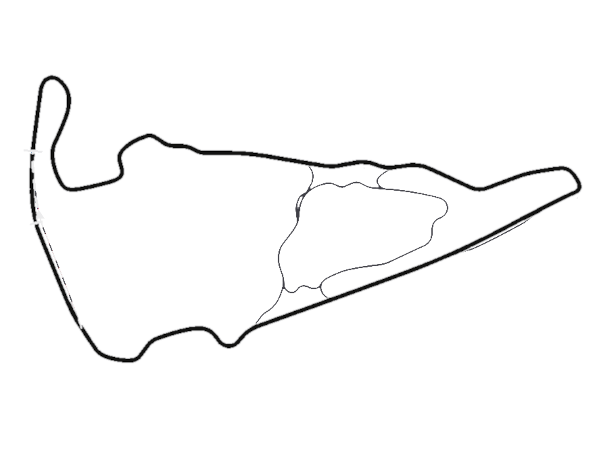
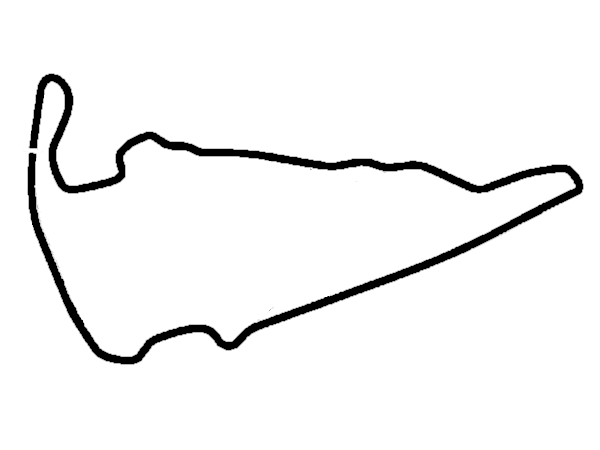
Add mazda + lambo badges, thicken vir map

Changed region(s): [[0.03, 0.1556, 0.99, 0.8089], [0.48, 0.4356, 0.51, 0.5289], [0.72, 0.4356, 0.75, 0.4978]]

diff --git a/Racing Overlay/Models/CarLogo.cs b/Racing Overlay/Models/CarLogo.cs
@@ -21,18 +21,22 @@ namespace RacingOverlay
                     return "audi-logo";
                 case string s when s.StartsWith("bmw"):
                     return "bmw-logo";
-                case "cadillacvseriesrgtp":
+                case string s when s.StartsWith("cadillac"):
                     return "cadillac-logo";
                 case "chevyvettez06rgt3":
                     return "chevrolet-logo";
-                case "dallarap217":
+                case string s when s.StartsWith("dallara"):
                     return "dallara-logo";
                 case string s when s.StartsWith("ferrari"):
                     return "ferrari-logo";
-                case "fordmustanggt3":
+                case string s when s.StartsWith("ford"):
                     return "ford-logo";
+                case string s when s.StartsWith("lamborghini"):
+                    return "lamborghini-logo";
                 case string s when s.StartsWith("mclaren"):
                     return "mclaren-logo";
+                case "mx5 mx52016":
+                    return "mazda-logo";
                 case "ligierjsp320":
                     return "ligier-logo";
                 case string s when s.StartsWith("mercedes"):

diff --git a/README.md b/README.md
@@ -51,7 +51,6 @@
 1. Watkins Glen
 1. Zandvoort
 
-
 ## Badges
 
 ### Completed
@@ -69,12 +68,11 @@
 1. McLaren
 1. Mercedes
 1. Porsche
-
+1. Lamborghini
+1. Mazda
 
 ### Next
 
-1. Lamborghini
-1. Mazda
 1. Toyota
 1. Renault
 1. Nissan
